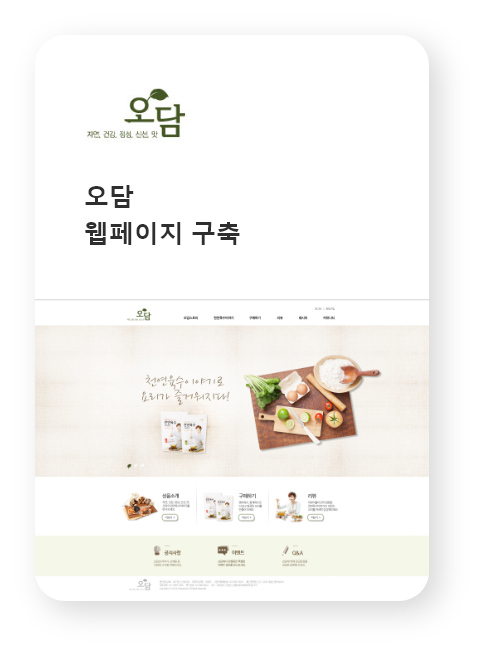
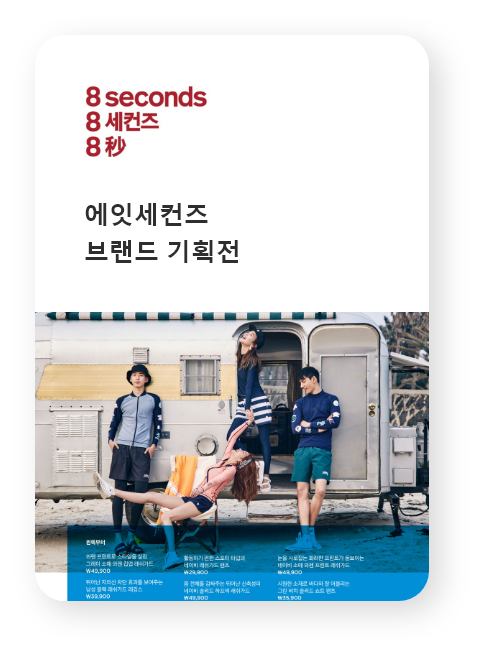
Add files via upload

diff --git a/index.html b/index.html
@@ -385,10 +385,10 @@
                 </div>
 
                 <div class="list03">
-                    <img src="./img/list03.png" alt="오담">
+                    <img src="./img/list03.png" alt="에잇세컨즈">
                     <ul>
-                        <li>웹페이지 구축</li>
-                        <li>오담 웹</li>
+                        <li>브랜드 기획전 페이지</li>
+                        <li>에잇세컨즈 브랜드 기획전</li>
                     </ul>
                 </div>
 
